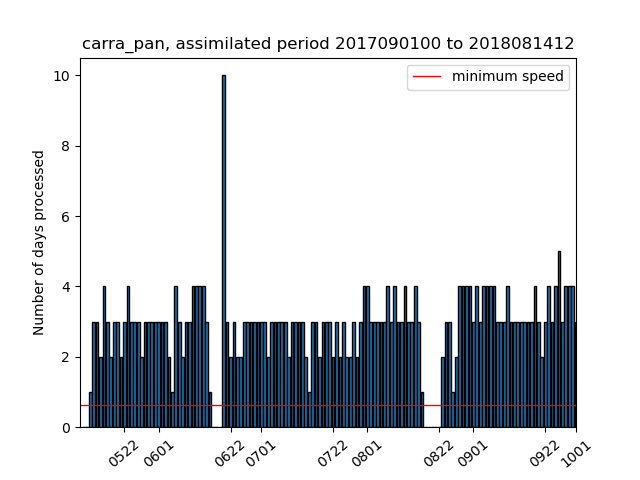
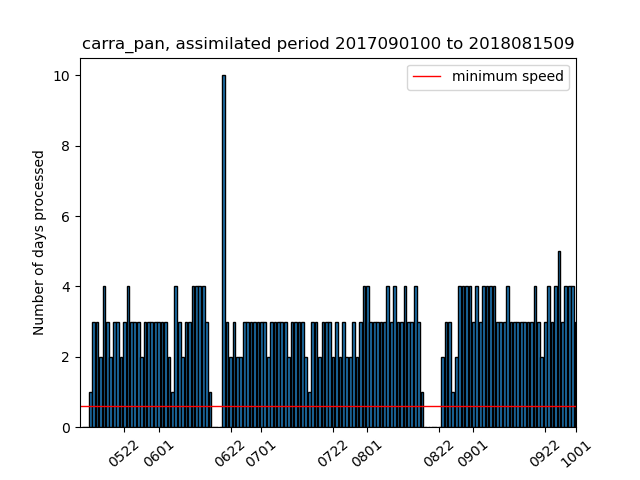
update repo

Changed region(s): [[0.125, 0.8438, 0.9062, 0.875], [0.8438, 0.0625, 0.9062, 0.125]]

diff --git a/current_state_sims.html b/current_state_sims.html
@@ -2,18 +2,18 @@
 <h1>Estimated completion dates and simulation speeds</h1>
 <p>Stream (production) completion date based on 30d (7d) moving avg speed</p>
 <p><a href="https://docs.google.com/document/d/1zDKAxuEXYnWWYzT3SZnZwY5WW8nodUMeYRjAGz46coc/edit#">Details of the calculation of the completion dates</a></p>
-<p>Last update: 2021/10/02 06:43:28 UTC</p>
+<p>Last update: 2021/10/02 12:39:43 UTC</p>
 <p>Total progress CARRA: 99.44% <a href="https://hirlam.org/portal/CARRA/Progress/GanntChart_CARRA.html"> (see detailed progress meter in Gantt chart) </a></p>
 <p>Total progress PANARCTIC: 91.67% </p>
 <p><a href="https://hirlam.org/portal/CARRA/Progress/waiting_times.html"> Queue waiting times for all streams</a></p>
 <p><a href="https://hirlam.org/portal/CARRA/Progress/mars_status.html"> MARS archive throughput </a></p>
 <html><table border="1"><tr><th>expId</th><th>Current assimilated date</th><th>End date of stream </th><th> Completion date</th><th> Avg. throughput (7d) </th> <th>Avg. throughput (30d) </th> <th> Remarks</tr>
-<tr bgcolor="#FFFF00"><td>carra_NE_3</td><td>2021063000</td><td>2021063021</td><td>2021100206</td><td>(0.0) days/day</td><td>(3.57) days/day</td><td>Inactive the past week</tr>
+<tr bgcolor="#FFFF00"><td>carra_NE_3</td><td>2021063000</td><td>2021063021</td><td>2021100212</td><td>(0.0) days/day</td><td>(3.57) days/day</td><td>Inactive the past week</tr>
 <tr bgcolor="#33FF38"><td>carra_NE_4</td><td>1992090100</td><td>1992083021</td><td>Finished on 20210824</td><td>(0.0) days/day</td><td>(0.0) days/day</td><td>Stream finished</tr>
 <tr bgcolor="#33FF38"><td>carra_NE_5</td><td>1994090100</td><td>1994083021</td><td>Finished on 20210824</td><td>(0.0) days/day</td><td>(0.0) days/day</td><td>Stream finished</tr>
-<tr bgcolor="#33FF38"><td>carra_NE_6</td><td>1997070100</td><td>1997063021</td><td>2021100122</td><td>(0.0) days/day</td><td>(3.07) days/day</td><td>Stream finished</tr>
-<tr bgcolor="#FFFF00"><td>carra_IGB_3</td><td>2021063000</td><td>2021063021</td><td>2021100206</td><td>(0.0) days/day</td><td>(3.43) days/day</td><td>Inactive the past week</tr>
-<tr bgcolor="#33FF38"><td>carra_IGB_4</td><td>1992090100</td><td>1992083021</td><td>2021093012</td><td>(0.0) days/day</td><td>(1.13) days/day</td><td>Stream finished</tr>
-<tr bgcolor="#33FF38"><td>carra_IGB_5</td><td>1994090100</td><td>1994083021</td><td>2021100120</td><td>(0.29) days/day</td><td>(4.6) days/day</td><td>Stream finished</tr>
-<tr bgcolor="#FFA500"><td>carra_IGB_6</td><td>1997010318</td><td>1997063021</td><td>2021110106</td><td>(6.86) days/day</td><td>(5.93) days/day</td><td>Completion date after project end (20211031)</tr>
-<tr bgcolor="#FFFFFF"><td>carra_pan</td><td>2018081412</td><td>2018090100</td><td>2021100712</td><td>(3.86) days/day</td><td>(3.43) days/day</td><td></tr>
+<tr bgcolor="#33FF38"><td>carra_NE_6</td><td>1997070100</td><td>1997063021</td><td>2021100204</td><td>(0.0) days/day</td><td>(3.07) days/day</td><td>Stream finished</tr>
+<tr bgcolor="#FFFF00"><td>carra_IGB_3</td><td>2021063000</td><td>2021063021</td><td>2021100212</td><td>(0.0) days/day</td><td>(3.43) days/day</td><td>Inactive the past week</tr>
+<tr bgcolor="#33FF38"><td>carra_IGB_4</td><td>1992090100</td><td>1992083021</td><td>2021093018</td><td>(0.0) days/day</td><td>(1.13) days/day</td><td>Stream finished</tr>
+<tr bgcolor="#33FF38"><td>carra_IGB_5</td><td>1994090100</td><td>1994083021</td><td>2021100202</td><td>(0.29) days/day</td><td>(4.6) days/day</td><td>Stream finished</tr>
+<tr bgcolor="#FFA500"><td>carra_IGB_6</td><td>1997010509</td><td>1997063021</td><td>2021110104</td><td>(6.86) days/day</td><td>(5.93) days/day</td><td>Completion date after project end (20211031)</tr>
+<tr bgcolor="#FFFFFF"><td>carra_pan</td><td>2018081509</td><td>2018090100</td><td>2021100711</td><td>(3.86) days/day</td><td>(3.43) days/day</td><td></tr>
